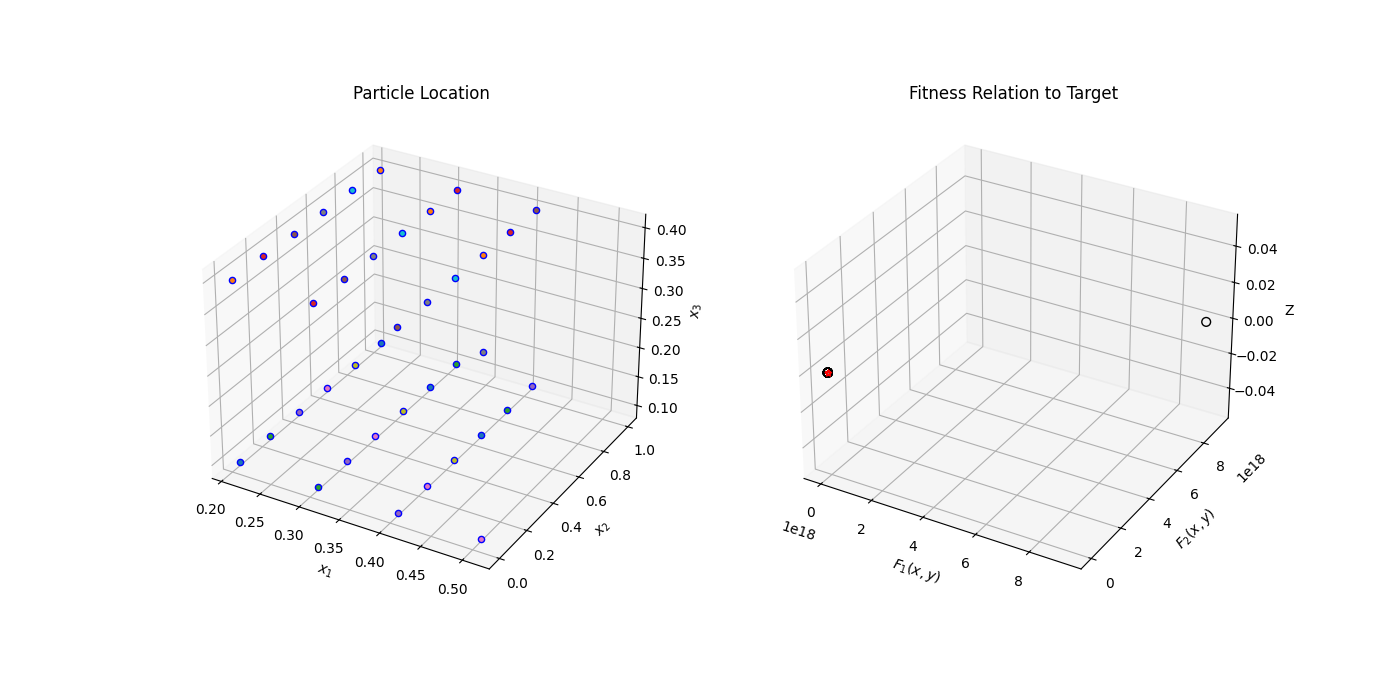
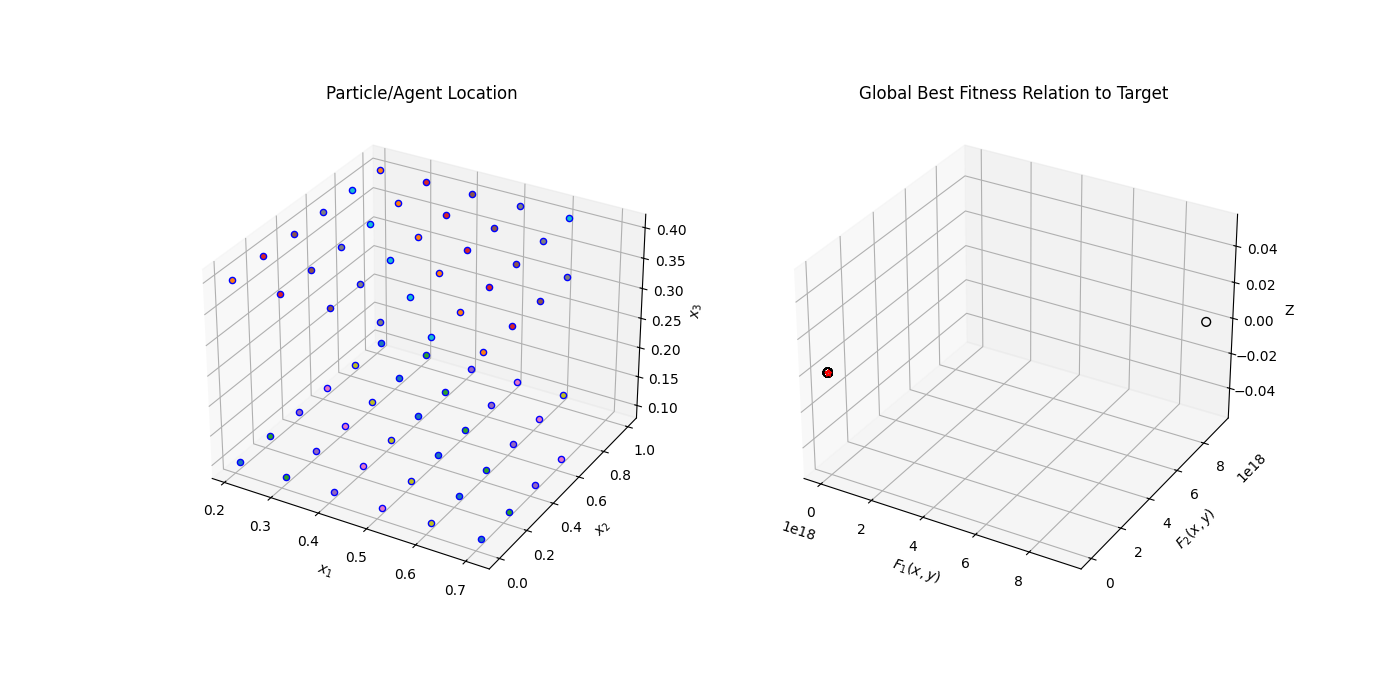
graph update for readme

diff --git a/src/main_test_graph.py b/src/main_test_graph.py
@@ -111,13 +111,13 @@ class TestGraph():
         
         # MOVEMENT PLOT
         if np.shape(m_coords)[0] == 2: #2-dim func
-            self.ax1.set_title("Particle Location")
+            self.ax1.set_title("Particle/Agent Location")
             self.ax1.set_xlabel("$x_1$")
             self.ax1.set_ylabel("$x_2$")
             self.scatter = self.ax1.scatter(m_coords[0, :], m_coords[1, :], edgecolors='b')
 
         elif np.shape(m_coords)[0] == 3: #3-dim func
-            self.ax1.set_title("Particle Location")
+            self.ax1.set_title("Particle/Agent Location")
             self.ax1.set_xlabel("$x_1$")
             self.ax1.set_ylabel("$x_2$")
             self.ax1.set_zlabel("$x_3$")
@@ -126,13 +126,13 @@ class TestGraph():
 
         # FITNESS PLOT
         if np.shape(f_coords)[0] == 2: #2-dim obj func
-            self.ax2.set_title("Fitness Relation to Target")
+            self.ax2.set_title("Global Best Fitness Relation to Target")
             self.ax2.set_xlabel("$F_{1}(x,y)$")
             self.ax2.set_ylabel("$F_{2}(x,y)$")
             self.scatter = self.ax2.scatter(f_coords[0, :], f_coords[1, :], marker='o', s=40, facecolor="none", edgecolors="k")
 
         elif np.shape(f_coords)[0] == 3: #3-dim obj fun
-            self.ax2.set_title("Fitness Relation to Target")
+            self.ax2.set_title("Global Best Fitness Relation to Target")
             self.ax2.set_xlabel("$F_{1}(x,y)$")
             self.ax2.set_ylabel("$F_{2}(x,y)$")
             self.ax2.set_zlabel("$F_{3}(x,y)$")
